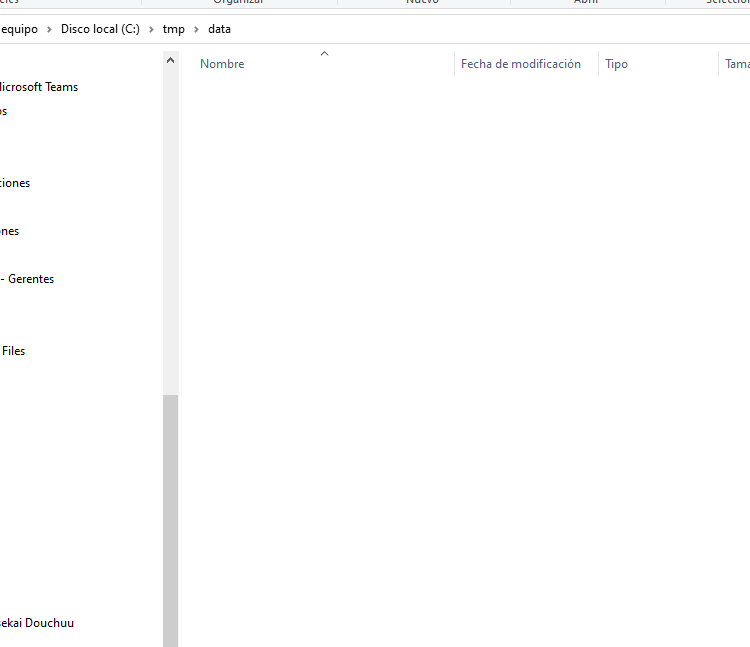
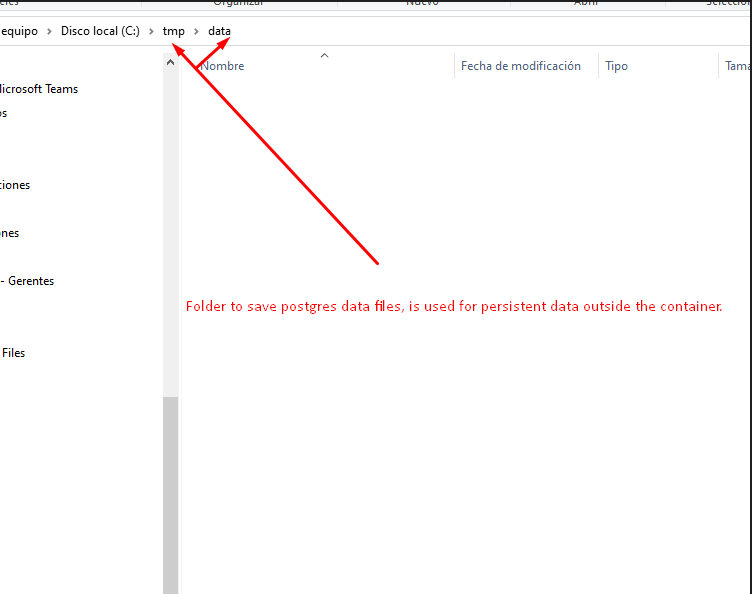
- name of variables fix and conection message
- update docs screenshots

diff --git a/README.md b/README.md
@@ -37,3 +37,5 @@ PS C:\..> .\build-run-ms_postgres_server.ps1
 ![Alt text](/docs/Screenshot_6.png?raw=true)
 ![Alt text](/docs/Screenshot_7.png?raw=true)
 ![Alt text](/docs/Screenshot_8.png?raw=true)
+![Alt text](/docs/Screenshot_9.png?raw=true)
+![Alt text](/docs/Screenshot_10.png?raw=true)
